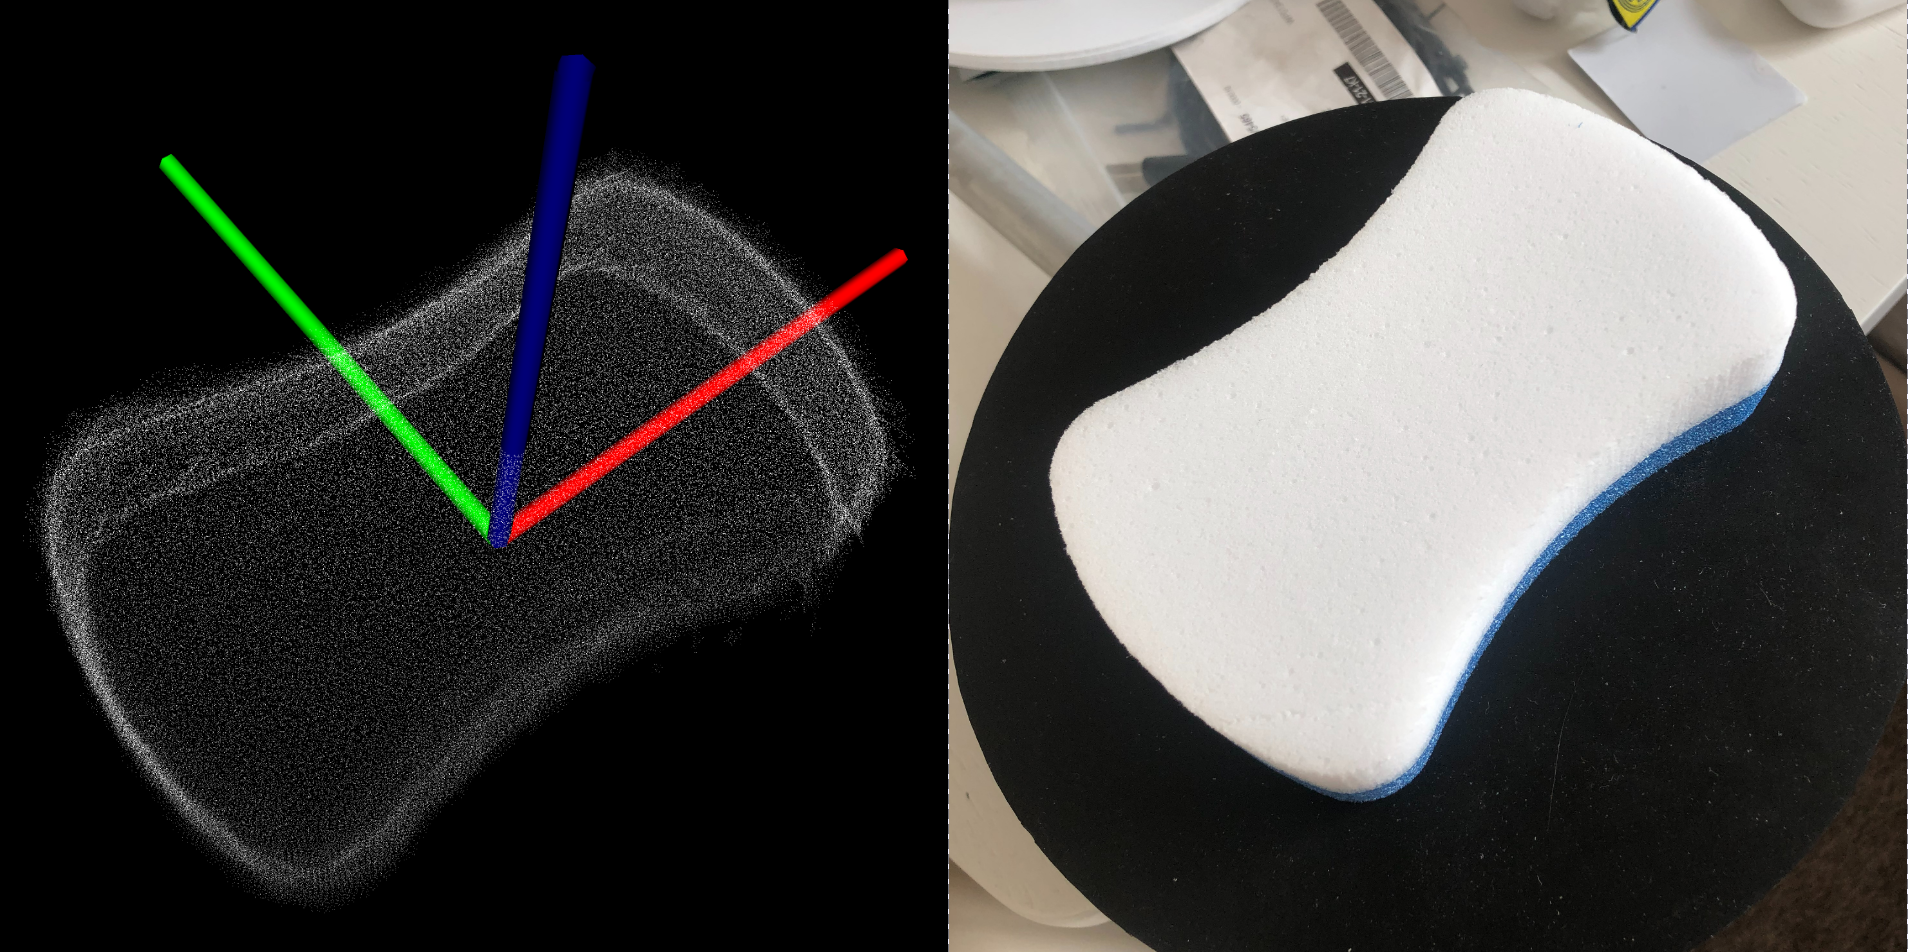
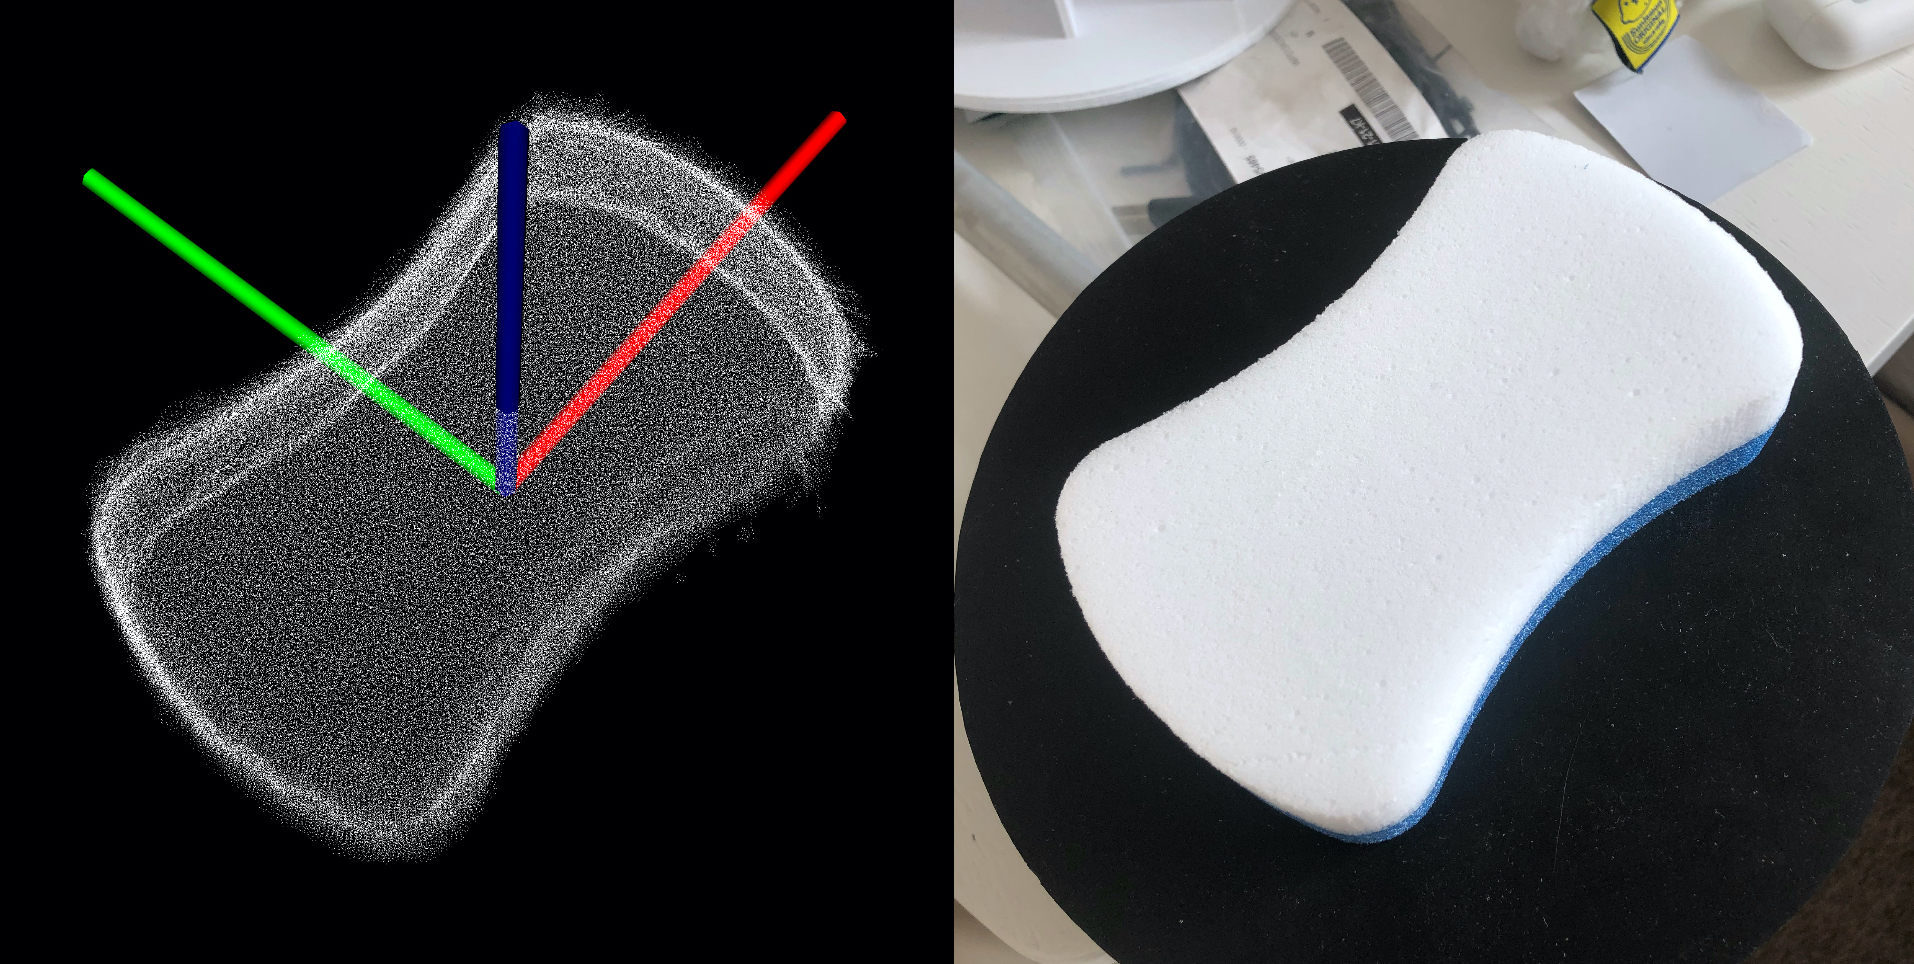
updated sponge image

diff --git a/test/research/registration/Registration.cpp b/test/research/registration/Registration.cpp
@@ -199,7 +199,7 @@ TEST_F(RegistrationFixture, TestICPSwag) {
 
 TEST_F(RegistrationFixture, ViewRegisteredPCD) {
     auto cloud = std::make_shared<pcl::PointCloud<pcl::PointXYZ>>();
-    pcl::io::loadPCDFile<pcl::PointXYZ>("/Users/seanngpack/Library/Application Support/SwagScanner/scans/sponge/processed/REGISTERED.pcd",
+    pcl::io::loadPCDFile<pcl::PointXYZ>("/Users/seanngpack/Library/Application Support/SwagScanner/scans/new_eraser/processed/REGISTERED.pcd",
                                         *cloud);
     std::cout << cloud->size() << std::endl;
     viewer->simpleVis(cloud);
